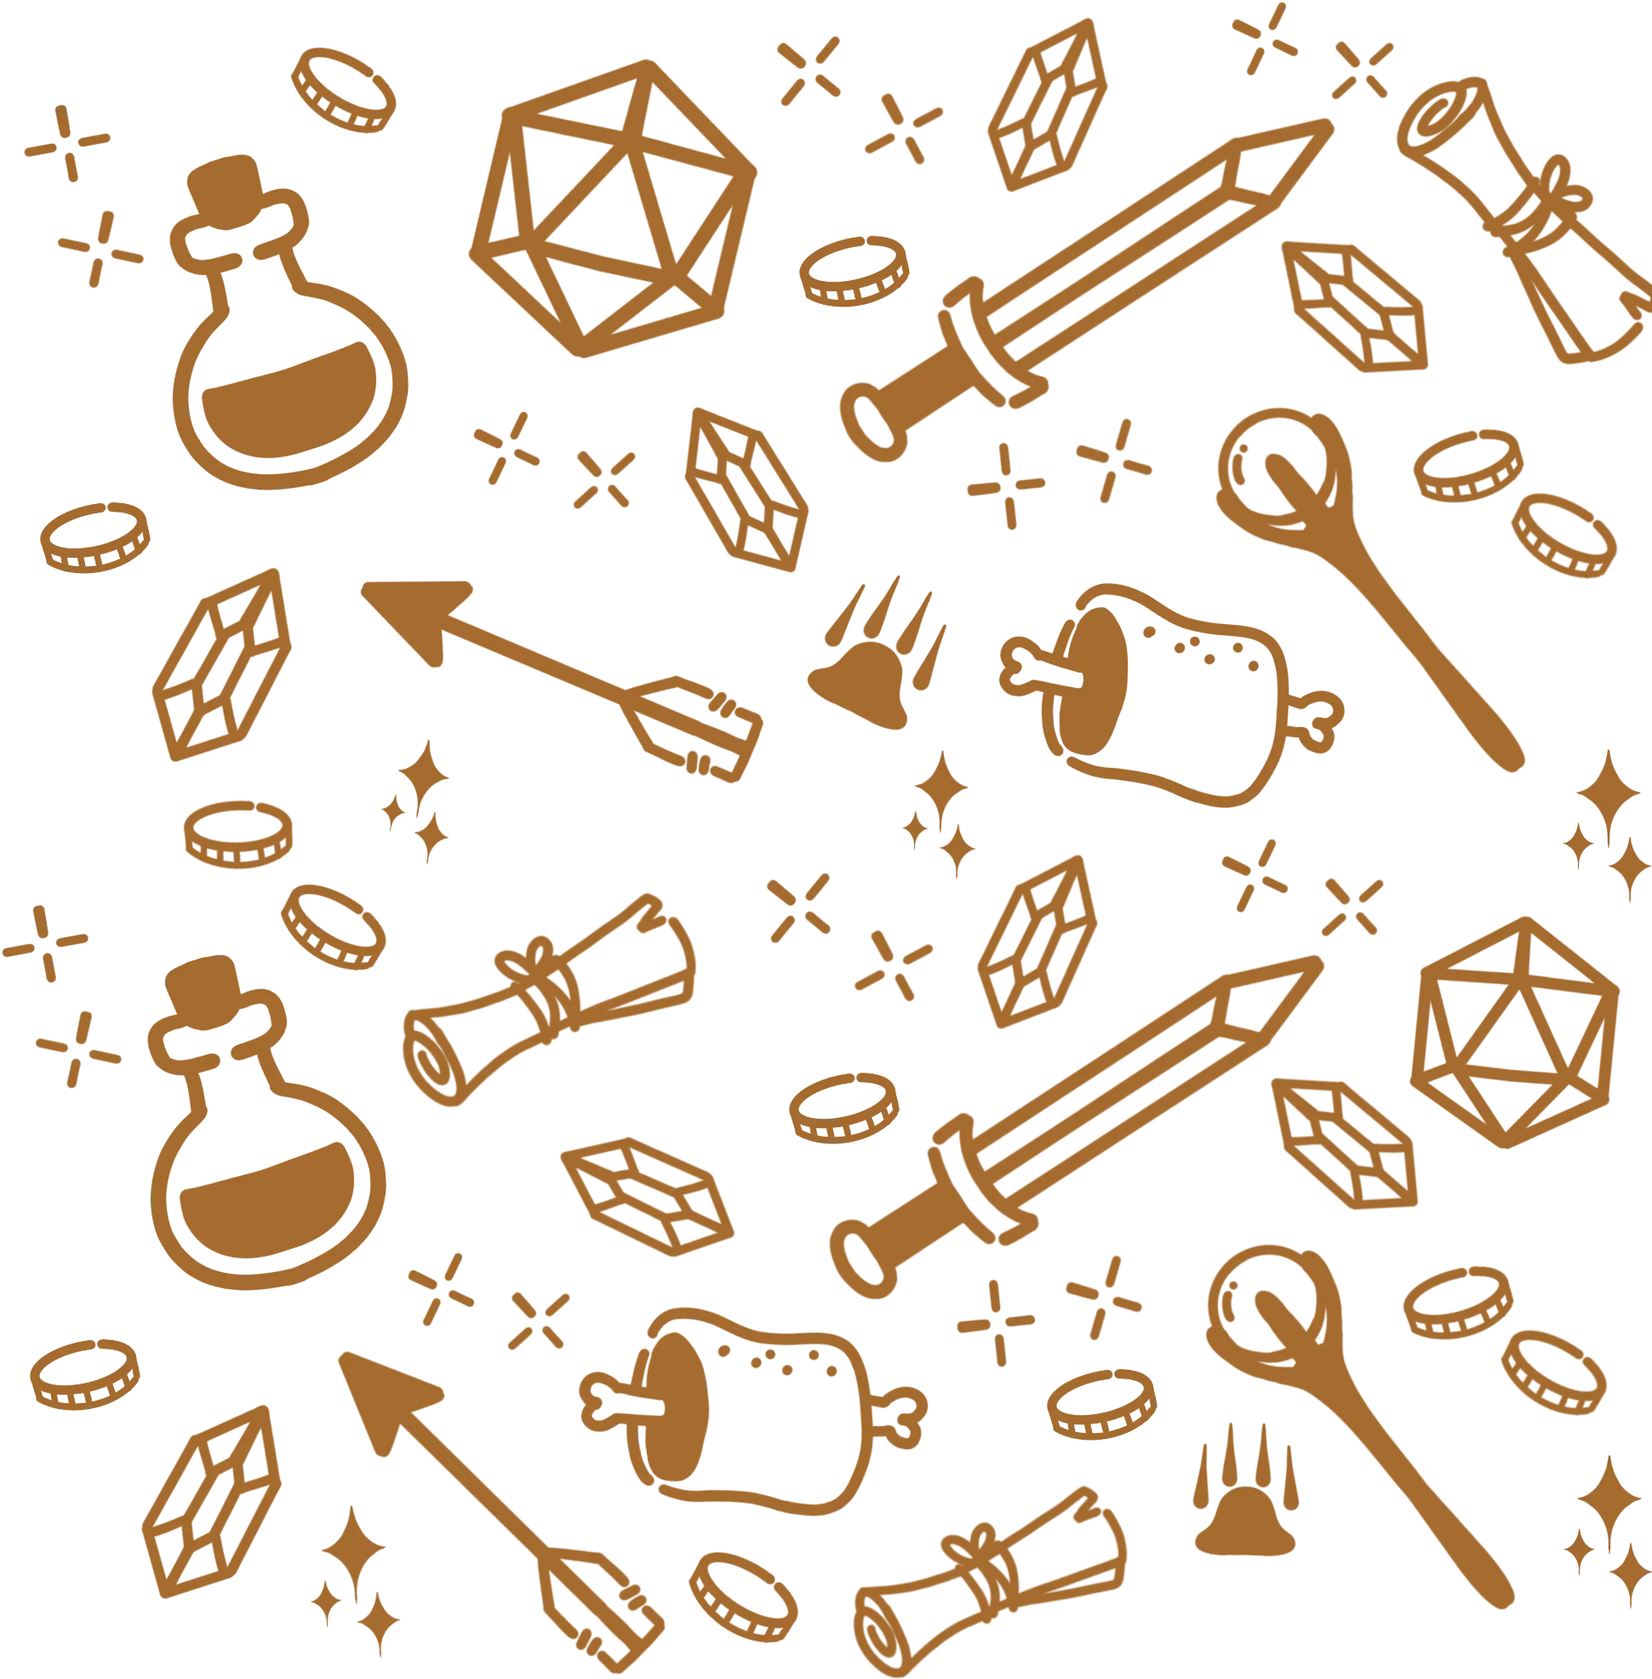
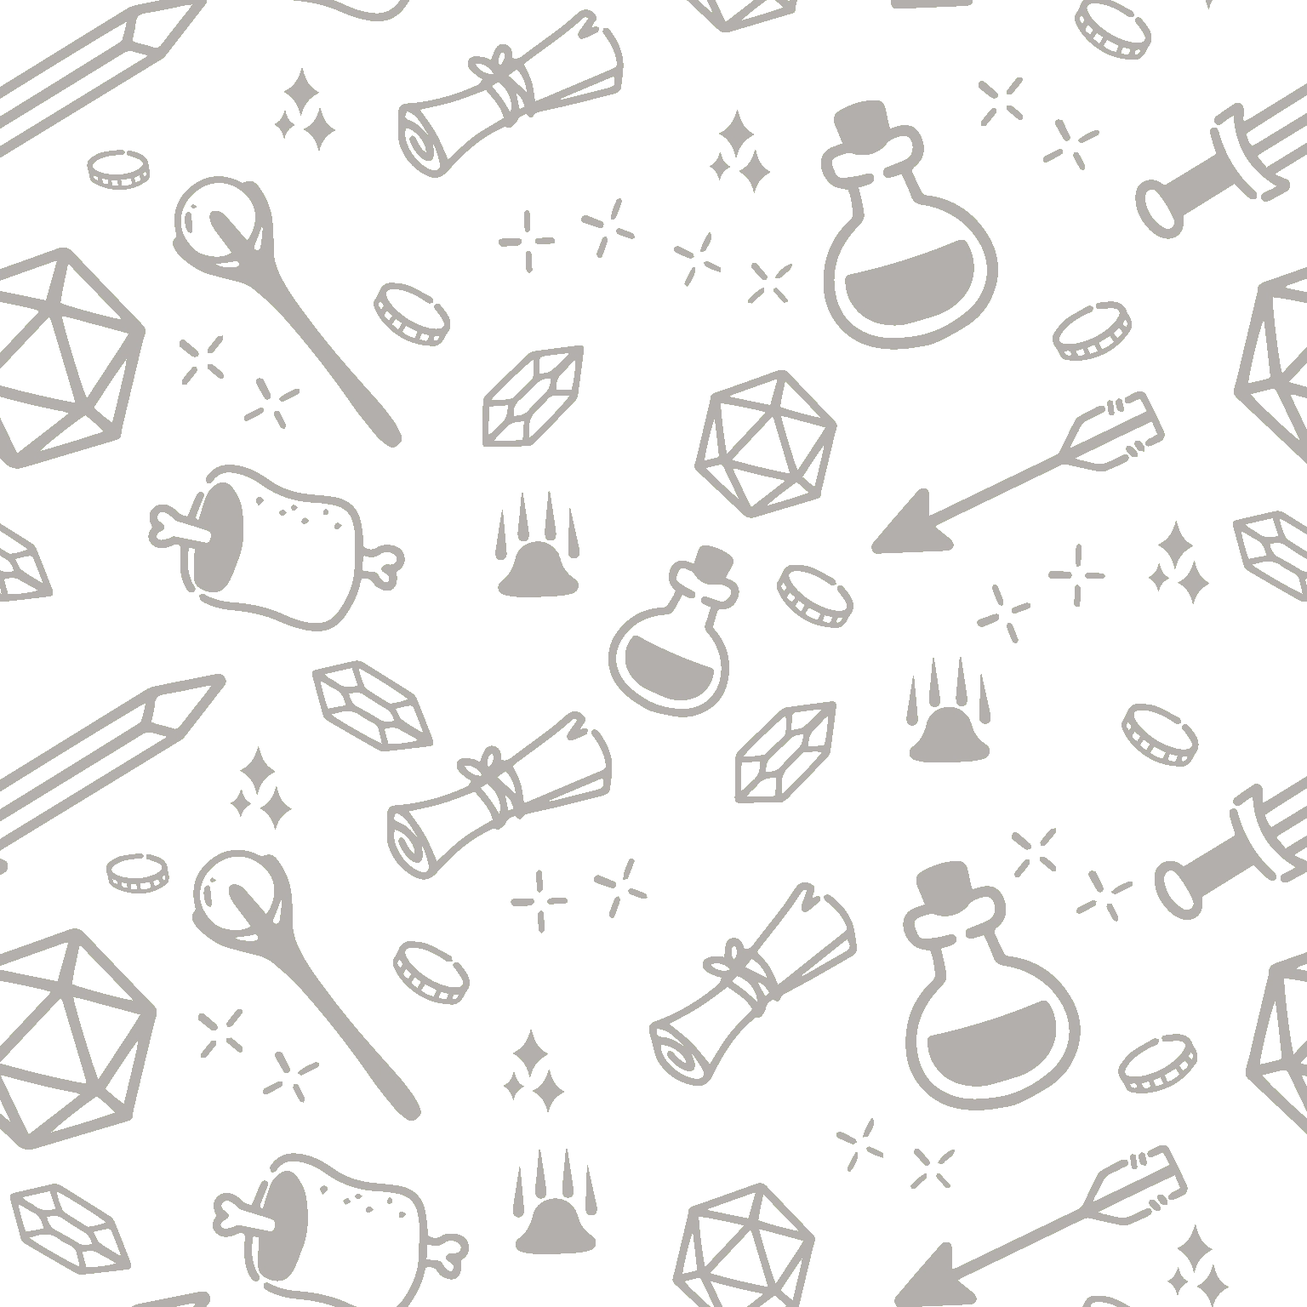
Update handbook branding and expansion tabs

diff --git a/src/components/DetailScreen.jsx b/src/components/DetailScreen.jsx
@@ -1,7 +1,7 @@
 import { isDialogBackdropClick } from '../utils/dialog';
 import DisplaySettings from './DisplaySettings';
 import { expansionLabel, expansionSections, isExpansionBook } from '../utils/expansions';
-import React, { useState, useEffect, useMemo, useRef, useLayoutEffect } from 'react';
+import React, { useState, useEffect, useMemo, useRef, useLayoutEffect, useId } from 'react';
 import { motion, useReducedMotion } from 'framer-motion';
 import { ArrowLeft, Heart, Folder } from 'lucide-react';
 import { MagicBrowser } from './ItemCatalog';
@@ -234,6 +234,10 @@ export default function DetailScreen({
         ? expansionSections(currentCategoryData, featData)
         : null;
 
+    const [selectedBookSection, setSelectedBookSection] = useState(entry.section);
+    const bookTabsId = useId();
+    const activeBookSection = bookSections?.find(([label]) => label === selectedBookSection) ?? bookSections?.[0];
+
     useLayoutEffect(() => {
         if (!entry.section) return;
         const target = Array.from(scrollRef.current?.querySelectorAll('[data-expansion-section]') || [])
@@ -412,10 +416,32 @@ export default function DetailScreen({
 
 
 
-                                {bookSections ? bookSections.map(([label, items]) => {
-                                    const cards = (
-                                        <div className="item-grid reference-card-grid">
-                                            {items.map(item => (
+                                {bookSections ? activeBookSection && (
+                                    <section className="mb-8" data-expansion-section={activeBookSection[0]}>
+                                        <div className="catalog-tabs expansion-tabs" role="tablist" aria-label="扩充手册分类">
+                                            {bookSections.map(([label], index) => {
+                                                const selected = label === activeBookSection[0];
+                                                return (
+                                                    <button key={label} type="button" role="tab" id={`${bookTabsId}-${index}`}
+                                                        aria-selected={selected} aria-controls={`${bookTabsId}-panel`} tabIndex={selected ? 0 : -1}
+                                                        onClick={() => setSelectedBookSection(label)}
+                                                        onKeyDown={event => {
+                                                            const offset = { ArrowLeft: -1, ArrowRight: 1 }[event.key];
+                                                            if (!offset) return;
+                                                            event.preventDefault();
+                                                            const next = (index + offset + bookSections.length) % bookSections.length;
+                                                            setSelectedBookSection(bookSections[next][0]);
+                                                            event.currentTarget.parentElement.children[next].focus();
+                                                        }}>
+                                                        {label === '子职' ? '子职业' : label}
+                                                    </button>
+                                                );
+                                            })}
+                                        </div>
+                                        <div role="tabpanel" id={`${bookTabsId}-panel`}
+                                            aria-labelledby={`${bookTabsId}-${bookSections.indexOf(activeBookSection)}`}
+                                            className="item-grid reference-card-grid">
+                                            {activeBookSection[1].map(item => (
                                                 <ItemCard
                                                     lightweight
                                                     key={item.id}
@@ -426,20 +452,8 @@ export default function DetailScreen({
                                                 />
                                             ))}
                                         </div>
-                                    );
-                                    return label === '内容' ? (
-                                        <section key={label} className="mb-8">
-                                            <h3 className="section-title mb-4">内容</h3>
-                                            {cards}
-                                        </section>
-                                    ) : (
-                                        <details key={label} data-expansion-section={label}
-                                            className="expansion-content mb-8" open={entry.section === label}>
-                                            <summary className="section-title mb-4">{label}</summary>
-                                            {cards}
-                                        </details>
-                                    );
-                                }) : <>
+                                    </section>
+                                ) : <>
                                 {Object.keys(currentCategoryData._children).length > 0 && (
                                     <div className="mb-8">
                                         <h3 className="section-title mb-4">分类</h3>

diff --git a/src/components/WelcomePanel.jsx b/src/components/WelcomePanel.jsx
@@ -33,7 +33,7 @@ function DirectoryGrid({ names, categoryTree, navigateTo }) {
     );
 }
 
-export default function WelcomePanel({ chapters, expansions = [], categoryTree, navigateTo, selectItem, isBookmarkedAnywhere, openBookmarkDialog }) {
+export default function WelcomePanel({ theme, chapters, expansions = [], categoryTree, navigateTo, selectItem, isBookmarkedAnywhere, openBookmarkDialog }) {
     const panel = useRef(null);
     useLayoutEffect(() => {
         const titles = [...panel.current.querySelectorAll('.welcome-directory .card-title')];
@@ -64,19 +64,7 @@ export default function WelcomePanel({ chapters, expansions = [], categoryTree, 
     const glossaryItems = glossaryTitles.map(title => glossaryFiles.find(item => item.title === title)).filter(Boolean);
     return (
         <div className="welcome-panel" ref={panel}>
-            <div className="logo flex items-center gap-2">
-                <a href="/" className="sidebar-header" onClick={(e) => { e.preventDefault(); navigateTo([], false, false); }}>
-                    <img src="/DFD logo-cropped.png" alt="Logo" className="sidebar-logo" />
-                    <div className="flex flex-col">
-                        <span className="logo-text dnd-font gold-text leading-tight">Don't Feed Dragon <br></br>不要喂龙公会</span>
-                    </div>
-                </a>
-            </div>
-
-            {/* <img src="/DFD logo-cropped.png" alt="Welcome Logo" className="welcome-logo" /> */}
-            {/* <h3 className="welcome-logo-text dnd-font gold-text text-2xl mb-2">不要喂龙公会</h3> */}
-            <h2 className="welcome-title text-2xl mb-2">DnD 玩家手册2024</h2>
-            <p className="welcome-desc">从目录选择分类，或使用全局搜索，快速查找规则、法术与职业内容。常用资料可 ❤ 收藏至文件夹，让你在冒险途中随时查阅。</p>
+            <img src={theme === 'light' ? '/DND桌子深色标题.webp' : '/DND桌子浅色标题.webp'} alt="诺诺 DnD" className="welcome-logo" width={3000} height={1509} />
 
             <div className="welcome-directory mt-6">
                 <DirectoryGrid names={chapters.filter(name => !name.startsWith('附录'))}
@@ -105,7 +93,6 @@ export default function WelcomePanel({ chapters, expansions = [], categoryTree, 
 
             {expansions.length > 0 && (
                 <>
-                    <h2 className="welcome-title text-2xl mb-2 mt-12">扩充手册</h2>
                     <p className="welcome-desc">
                         扩充手册包含额外的角色创建选项与规则模块。
                         但力量并非毫无代价——使用扩充手册创建的角色将比标准规则低 1⃣ 个等级。
@@ -120,7 +107,7 @@ export default function WelcomePanel({ chapters, expansions = [], categoryTree, 
                 <p className="text-gold opacity-90 text-sm leading-relaxed whitespace-pre-line">
                     <strong>冒险者须知 · Beta 测试</strong><br></br>
                     {"\n"}
-                    此玩家手册仍在锻造之中（Beta 测试阶段）。<br></br>
+                    此冒险手册仍在锻造之中（Beta 测试阶段）。<br></br>
                     {"\n"}
                     若你在冒险途中发现任何异常、错误，或有改进建议，<br></br>
                     {"\n"}
@@ -144,7 +131,7 @@ export default function WelcomePanel({ chapters, expansions = [], categoryTree, 
                     Provided by Don't Feed Dragon 不要喂龙公会 <br></br> Powered by <a href="https://elifestyles.biz" target="_blank" rel="noopener noreferrer" className="hover:text-gold transition-colors">eLifeStyles.biz</a>
                 </p>
                 <p className="footer-link text-xs opacity-60 mt-1">
-                    查看更多玩家手册在: <a href="https://5echm.kagangtuya.top/" target="_blank" rel="noopener noreferrer" className="hover:text-gold transition-colors">https://5echm.kagangtuya.top/</a>
+                    查看更多冒险手册在: <a href="https://5echm.kagangtuya.top/" target="_blank" rel="noopener noreferrer" className="hover:text-gold transition-colors">https://5echm.kagangtuya.top/</a>
                 </p>
             </footer>
         </div>

diff --git a/index.html b/index.html
@@ -5,19 +5,57 @@
   <meta charset="UTF-8" />
   <link rel="icon" type="image/png" href="https://dfd-playerhandbooks.elsbiz.website/favico.jpg" />
   <meta name="viewport" content="width=device-width, initial-scale=1.0" />
-  <title>DFD 不要喂龙公会｜DnD 玩家手册 2024</title>
-  <meta name="description" content="DFD 不要喂龙公会提供的 DnD 玩家手册 2024，支援目录分类与全局搜索，快速查找规则、法术与职业内容，并可收藏常用资料，方便冒险途中随时查阅。" />
+  <title>DFD 不要喂龙公会｜冒险手册</title>
+  <meta name="description" content="DFD 不要喂龙公会提供的 冒险手册，支援目录分类与全局搜索，快速查找规则、法术与职业内容，并可收藏常用资料，方便冒险途中随时查阅。" />
 
   <!-- Open Graph / Facebook -->
   <meta property="og:type" content="website" />
-  <meta property="og:title" content="DFD 不要喂龙公会｜DnD 玩家手册 2024" />
+  <meta property="og:title" content="DFD 不要喂龙公会｜冒险手册" />
   <meta property="og:description"
-    content="DFD 不要喂龙公会提供的 DnD 玩家手册 2024，支援目录分类与全局搜索，快速查找规则、法术与职业内容，并可收藏常用资料，方便冒险途中随时查阅。" />
+    content="DFD 不要喂龙公会提供的 冒险手册，支援目录分类与全局搜索，快速查找规则、法术与职业内容，并可收藏常用资料，方便冒险途中随时查阅。" />
   <meta property="og:image" content="https://dfd-playerhandbooks.elsbiz.website/favico.jpg" />
+  <style>
+    .startup-screen {
+      position: fixed;
+      inset: 0;
+      display: grid;
+      place-content: center;
+      justify-items: center;
+      gap: 12px;
+      color: #e2e2e7;
+      font: 16px system-ui, sans-serif;
+      background-color: var(--background-pattern-base, #161616);
+      background-image: linear-gradient(var(--background-pattern-overlay, #161616e6), var(--background-pattern-overlay, #161616e6)), url('/dfdbackground.webp');
+      background-repeat: no-repeat, repeat;
+      background-size: cover, var(--background-tile-width, 200px) auto;
+    }
+
+    @media (prefers-reduced-motion: no-preference) {
+      .startup-dragon {
+        width: clamp(112px, 28vw, 176px);
+        aspect-ratio: 442 / 394;
+        background: url('/Chibi%20Dragon%20Cheer%20Animation.gif') center / contain no-repeat;
+      }
+    }
+  </style>
 </head>
 
 <body>
-  <div id="root"></div>
+  <div id="root">
+    <div class="startup-screen" role="status">
+      <span class="startup-dragon" aria-hidden="true"></span>
+      <span>正在加载冒险手册…</span>
+    </div>
+  </div>
+  <script>
+    const startupScreen = document.querySelector('.startup-screen');
+    try {
+      if (localStorage.getItem('dnd-startup-seen')) startupScreen.remove();
+    } catch {
+      // The intro can still play when browser storage is unavailable.
+    }
+    startupScreen.dataset.startedAt = performance.now();
+  </script>
   <script type="module" src="/src/main.jsx"></script>
 </body>
 

diff --git a/src/index.css b/src/index.css
@@ -3,6 +3,8 @@
 :root {
   font-size: var(--handbook-text-size, 100%);
   --background-tile-width: clamp(60px, 200vw, 200px);
+  --background-pattern-base: #161616;
+  --background-pattern-overlay: rgb(22 22 22 / 90%);
   --top-bar-height: 42px;
   --bg-primary: #3A3A3A;
   --bg-secondary: #3A3A3A;
@@ -26,6 +28,8 @@
 }
 
 body.light-theme {
+  --background-pattern-base: #f3efe7;
+  --background-pattern-overlay: rgb(243 239 231 / 88%);
   --accent-crimson: #a32424;
   --content-green: #17632a;
   --content-blue: #174e9b;
@@ -57,11 +61,11 @@ body {
 
 body {
   font-family: 'Inter', sans-serif;
-  background-color: var(--bg-primary);
+  background-color: var(--background-pattern-base);
   color: var(--text-primary);
   font-weight: 400;
   line-height: 1.6;
-  background-image: linear-gradient(var(--glass-bg), var(--glass-bg)), url('/dfdbackground.webp');
+  background-image: linear-gradient(var(--background-pattern-overlay), var(--background-pattern-overlay)), url('/dfdbackground.webp');
   background-repeat: no-repeat, repeat;
   background-attachment: fixed;
   background-size: cover, var(--background-tile-width) auto;
@@ -826,18 +830,24 @@ a {
   text-align: center;
 }
 
-.welcome-panel .logo {
-  margin-bottom: 1rem;
+.welcome-panel .welcome-logo {
+  display: block;
+  width: min(100%, 640px);
+  height: auto;
+  margin: 0 auto 1rem;
+}
+
+@media (max-width: 768px) {
+  .welcome-panel .welcome-logo {
+    width: calc(100% + 1.5rem);
+    max-width: none;
+    margin-inline: -0.75rem;
+  }
 }
 
 .welcome-icon {
   color: rgba(198, 180, 29, 0.4);
   /* margin-bottom: 1.5rem; */
-}
-
-.welcome-logo-text {
-  font-size: 1.5rem;
-  margin-bottom: 1rem;
 }
 
 .welcome-title {
@@ -1575,9 +1585,9 @@ body.overlay-open .main-viewport .overflow-y-auto {
   right: 0;
   bottom: 0;
   z-index: 1500;
-  background-color: var(--bg-primary);
+  background-color: var(--background-pattern-base);
   /* Paint on the fixed panel, independently of expanding/scrolling content. */
-  background-image: linear-gradient(var(--glass-bg), var(--glass-bg)), url('/dfdbackground.webp');
+  background-image: linear-gradient(var(--background-pattern-overlay), var(--background-pattern-overlay)), url('/dfdbackground.webp');
   background-repeat: no-repeat, repeat;
   background-size: cover, var(--background-tile-width) auto;
   background-position: top left;
@@ -1636,14 +1646,6 @@ body.overlay-open .main-viewport .overflow-y-auto {
   width: 60px;
   height: 60px;
   object-fit: contain;
-}
-
-.welcome-logo {
-  width: 150px;
-  height: 150px;
-  object-fit: contain;
-  margin-bottom: 0;
-  opacity: 0.8;
 }
 
 /* Bookmark Reordering Styles */
@@ -3837,8 +3839,12 @@ body.light-theme :is(.spell-card-wrapper, .condition-card, .item-card, .catalog-
   contain-intrinsic-block-size: auto 100px;
 }
 
-.expansion-content > summary {
-  cursor: pointer;
+.catalog-tabs.expansion-tabs {
+  flex-wrap: wrap;
+}
+
+.expansion-tabs button {
+  padding-inline: 12px;
 }
 
 .expansion-section-link {

diff --git a/src/App.jsx b/src/App.jsx
@@ -289,7 +289,7 @@ export default function App() {
 
       <main className={`main-viewport ${(activeTab === 'spells' || activeTab === 'bookmarks' || activeTab === 'items') ? 'wide-view' : ''}`}>
         <div key={activeTab} className="tab-page-enter">
-          {activeTab === 'browser' && <WelcomePanel chapters={CHAPTERS_TO_SHOW} expansions={EXPANSIONS_TO_SHOW} categoryTree={categoryTree} navigateTo={navigateTo}
+          {activeTab === 'browser' && <WelcomePanel theme={theme} chapters={CHAPTERS_TO_SHOW} expansions={EXPANSIONS_TO_SHOW} categoryTree={categoryTree} navigateTo={navigateTo}
             {...{selectItem, isBookmarkedAnywhere, openBookmarkDialog}} />}
           {activeTab === 'spells' && <SpellBrowser spellData={spellData} {...commonProps} />}
           {activeTab === 'items' && <ItemCatalog openBookmarkDialog={openBookmarkDialog} isBookmarkedAnywhere={isBookmarkedAnywhere} />}

diff --git a/src/main.jsx b/src/main.jsx
@@ -6,8 +6,25 @@ import { applyTextSize, getTextSize } from './utils/textSize'
 
 applyTextSize(getTextSize())
 
-ReactDOM.createRoot(document.getElementById('root')).render(
-  <React.StrictMode>
-    <App />
-  </React.StrictMode>,
-)
+const container = document.getElementById('root')
+const startupScreen = container.querySelector('.startup-screen')
+
+async function start() {
+  if (startupScreen) {
+    const elapsed = performance.now() - Number(startupScreen.dataset.startedAt)
+    await new Promise(resolve => setTimeout(resolve, Math.max(0, 3000 - elapsed)))
+    try {
+      localStorage.setItem('dnd-startup-seen', '1')
+    } catch {
+      // Opening the handbook does not require browser storage.
+    }
+  }
+
+  ReactDOM.createRoot(container).render(
+    <React.StrictMode>
+      <App />
+    </React.StrictMode>,
+  )
+}
+
+start()

diff --git a/src/components/SidebarContent.jsx b/src/components/SidebarContent.jsx
@@ -159,12 +159,12 @@ const SidebarContent = ({
                 </button>
             </div>
 
-            <span className="sidebar-page-title">DnD 玩家手册2024</span>
+            <span className="sidebar-page-title">冒险手册</span>
 
             <nav className="nav-menu">
                 <NavItem
                     icon={tabIcon('browser', BookOpen)}
-                    label="玩家手册"
+                    label="冒险手册"
                     active={activeTab === 'browser' && !glossaryActive}
                     onClick={() => switchTab('browser')}
                 />

diff --git a/src/components/TopBar.jsx b/src/components/TopBar.jsx
@@ -10,12 +10,12 @@ export default function TopBar({ activeTab, selectedItem, currentPath, detailSta
 
         switch (activeTab) {
             case 'browser':
-                return '玩家手册';
+                return '冒险手册';
             case 'items': return '武器装备';
             case 'spells': return '法术列表';
             case 'search': return '全局搜索';
             case 'bookmarks': return '我的收藏';
-            default: return '玩家手册';
+            default: return '冒险手册';
         }
     };
 

diff --git a/src/components/McpGuide.jsx b/src/components/McpGuide.jsx
@@ -53,7 +53,7 @@ export default function McpGuide() {
                             <li>确认风险提示后创建插件。</li>
                         </ol>
                         {[
-                            ['名称', '不要喂龙公会｜玩家手册 2024'],
+                            ['名称', '不要喂龙公会｜冒险手册'],
                             ['服务器网址', endpoint],
                         ].map(([label, value]) => (
                             <div className="mcp-guide-copy" key={label}>

diff --git a/src/components/MobileNavBar.jsx b/src/components/MobileNavBar.jsx
@@ -4,7 +4,7 @@ import { navMascots } from '../utils/handbookNavigation';
 import SpellStaffIcon from './SpellStaffIcon';
 
 const navigation = [
-    { id: 'browser', label: '玩家手册', Icon: BookOpen },
+    { id: 'browser', label: '冒险手册', Icon: BookOpen },
     { id: 'spells', label: '法术列表', Icon: SpellStaffIcon },
     { id: 'items', label: '武器装备', Icon: Swords },
     { id: 'character', label: '角色卡', Icon: User },
